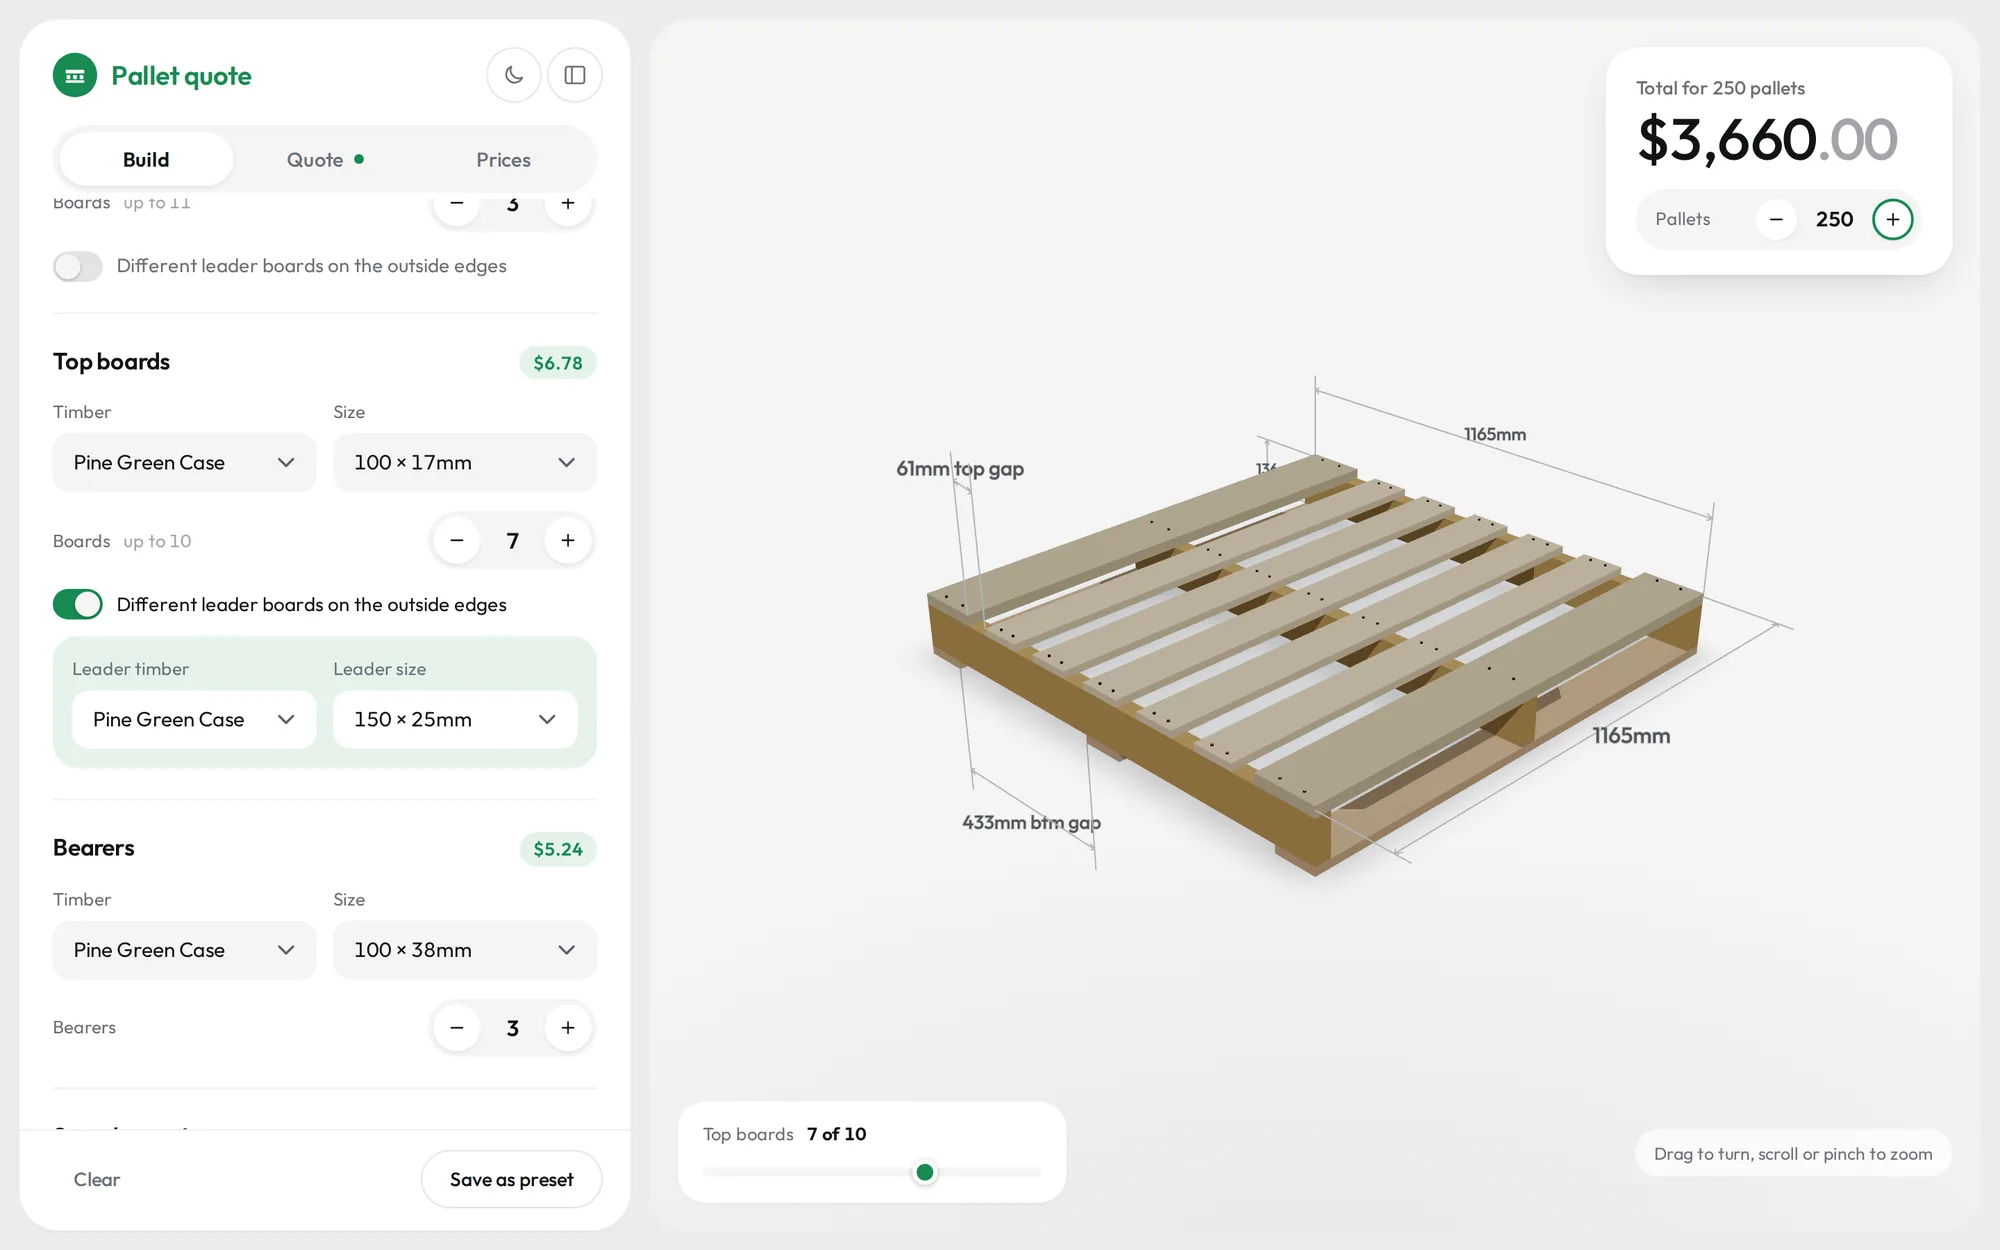
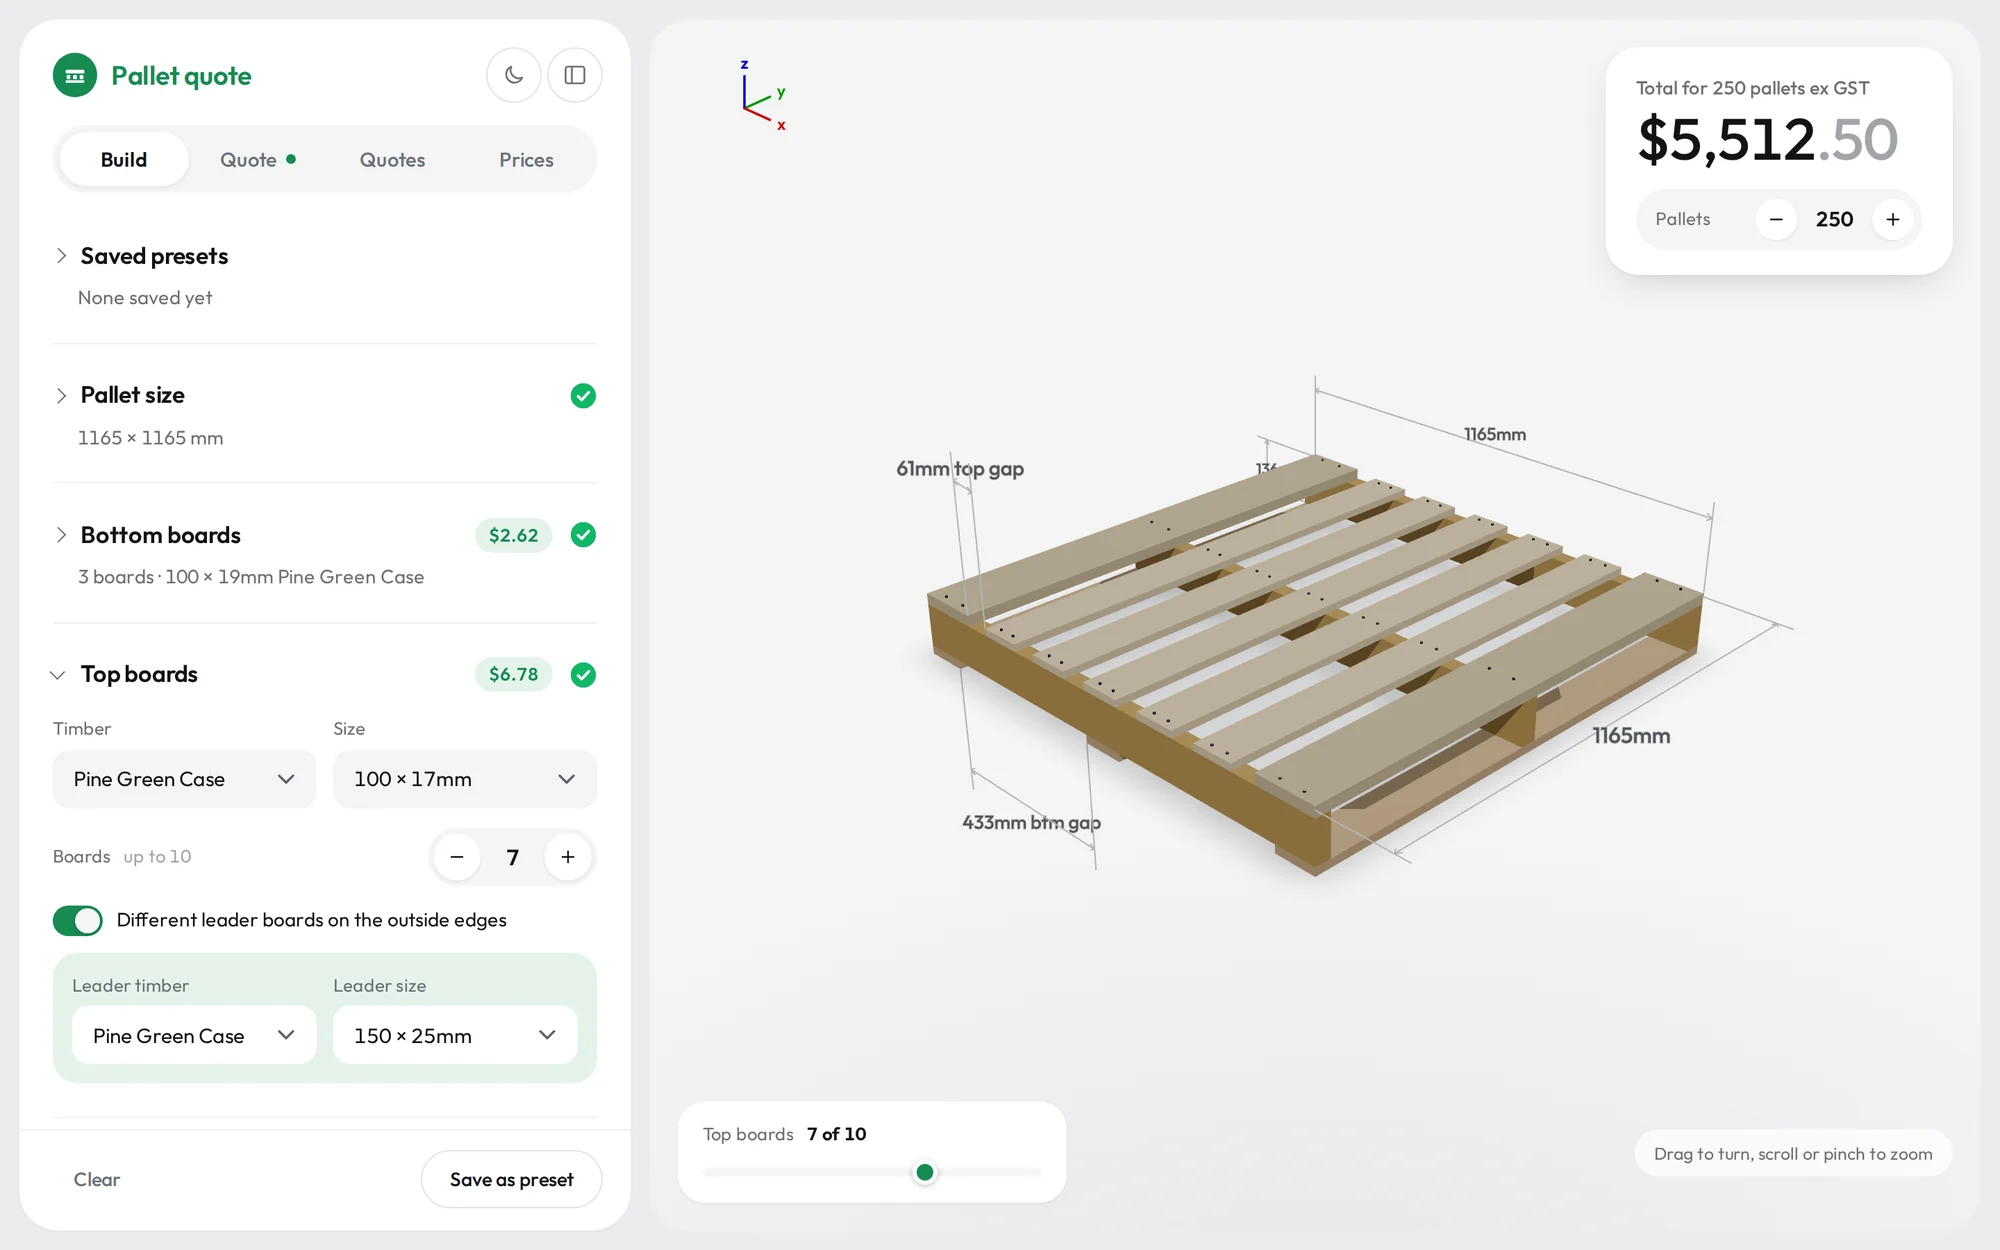
Ghost unchosen parts in 3D, same-timber shortcut, quote status filter, fresh landing screenshots
- 3D view: parts with no timber size yet show as faint outlined ghosts, off the ground shadow
- Build tab: one-click 'Use X, same as bottom boards' while a section has no timber
- Quotes tab: status chips with counts, combined with search; 'No quotes match' state
- Landing page: screenshots retaken with the current interface; callout and alt text updated
- Empty-view message only shows until a size is entered

Claude-Session: https://claude.ai/code/session_014ymZdXaVKdREm2ZLofRZKZ

diff --git a/src/components/PalletBuilderOverlay.jsx b/src/components/PalletBuilderOverlay.jsx
@@ -346,6 +346,7 @@ function PalletBuilderOverlay({ onQuoteCalculated, quoteData }) {
   const [ratesFromQuote, setRatesFromQuote] = useState(null)
   const [historyNotice, setHistoryNotice] = useState('')
   const [historySearch, setHistorySearch] = useState('')
+  const [historyStatus, setHistoryStatus] = useState('all')
   const [confirmDeleteId, setConfirmDeleteId] = useState(null)
 
   // Available sizes - derived from the selected timber type
@@ -706,6 +707,10 @@ function PalletBuilderOverlay({ onQuoteCalculated, quoteData }) {
       numberOfTopBoards: topBoards,
       numberOfBottomBoards: bottomBoards,
       numberOfBearers: bearers,
+      // Parts without a timber size yet are drawn as faint ghosts
+      topChosen: !!topBoardDims,
+      bottomChosen: !!bottomBoardDims,
+      bearerChosen: !!bearerDims,
       topGapSize: Math.max(0, topGap),
       bottomGapSize: Math.max(0, bottomGap)
     }
@@ -1158,6 +1163,14 @@ function PalletBuilderOverlay({ onQuoteCalculated, quoteData }) {
     bearers: liveQuote.bearersTotal
   }
 
+  // Quotes tab: search text and status chip together
+  const shownQuotes = quotes.filter(q => {
+    if (historyStatus !== 'all' && q.status !== historyStatus) return false
+    const term = historySearch.trim().toLowerCase()
+    if (!term) return true
+    return [q.number, q.customerName, q.customerRef, q.summary?.size].filter(Boolean).join(' ').toLowerCase().includes(term)
+  })
+
   const timberOptions = timberData.timberTypes.map(type => (
     <option key={type.id} value={type.id} title={type.name}>{type.shortName || type.name}</option>
   ))
@@ -1224,6 +1237,25 @@ function PalletBuilderOverlay({ onQuoteCalculated, quoteData }) {
     : `${missingParts.slice(0, -1).join(', ')} and ${missingParts[missingParts.length - 1]}`
   const empty = (value) => (value ? undefined : '')
 
+  // Shortcut for the usual case of one timber throughout: while a section has no timber,
+  // offer the timber already chosen in another section.
+  const chosenTimbers = [
+    ['bottom', 'bottom boards', selectedBottomBoardType],
+    ['top', 'top boards', selectedTopBoardType],
+    ['bearers', 'bearers', selectedBearerType]
+  ]
+  const sameTimberButton = (self, currentType, setType) => {
+    if (currentType) return null
+    const source = chosenTimbers.find(([key, , type]) => key !== self && type)
+    if (!source) return null
+    return (
+      <button type="button" className="same-timber" data-same-timber={self} onClick={() => setType(source[2])}>
+        <Icon name="plus" size={14} />
+        Use {timberName(source[2])}, same as {source[1]}
+      </button>
+    )
+  }
+
   // One deck of boards (top or bottom) - the two sections share the same controls
   const renderDeck = (deck) => {
     const isTop = deck === 'top'
@@ -1259,6 +1291,7 @@ function PalletBuilderOverlay({ onQuoteCalculated, quoteData }) {
             </select>
           </label>
         </div>
+        {sameTimberButton(deck, p.type, p.setType)}
         <div className="field field-inline">
           <span className="field-label" id={`${deck}-count-label`}>Boards {maxNote(p.max)}</span>
           <Stepper id={`${deck}-count-label`} label={`${deck} boards`} value={p.count} onChange={p.setCount} max={p.maxUI} allowEmpty />
@@ -1496,6 +1529,7 @@ function PalletBuilderOverlay({ onQuoteCalculated, quoteData }) {
                     </select>
                   </label>
                 </div>
+                {sameTimberButton('bearers', selectedBearerType, changeBearerType)}
                 <div className="field field-inline">
                   <span className="field-label" id="bearer-count-label">Bearers {maxNote(maxBearersAllowed)}</span>
                   <Stepper id="bearer-count-label" label="bearers" value={displayedBearers} onChange={setNumberOfBearers} max={maxBearersForUI} allowEmpty />
@@ -1694,6 +1728,21 @@ function PalletBuilderOverlay({ onQuoteCalculated, quoteData }) {
               <div className="history-head">
                 <input type="text" value={historySearch} onChange={(e) => setHistorySearch(e.target.value)}
                   placeholder="Search by customer, number or size" aria-label="Search saved quotes" data-field="history-search" />
+                {quotes.length > 0 && (
+                  <div className="status-filter" role="group" aria-label="Show quotes by status">
+                    {[['all', 'All'], ...Object.entries(STATUS_LABELS)].map(([value, label]) => {
+                      const count = value === 'all' ? quotes.length : quotes.filter(q => q.status === value).length
+                      return (
+                        <button key={value} type="button" data-status-filter={value}
+                          className={`chip ${historyStatus === value ? 'active' : ''}`} aria-pressed={historyStatus === value}
+                          disabled={count === 0 && historyStatus !== value}
+                          onClick={() => setHistoryStatus(value)}>
+                          {label}<span className="chip-count">{count}</span>
+                        </button>
+                      )
+                    })}
+                  </div>
+                )}
               </div>
               {quotes.length === 0 ? (
                 <div className="empty">
@@ -1701,15 +1750,15 @@ function PalletBuilderOverlay({ onQuoteCalculated, quoteData }) {
                   <p>Quotes are saved here when you export a PDF or press Save quote. Each one keeps the rates it was priced on.</p>
                   <button type="button" onClick={() => setActiveTab('calculator')} className="btn btn-secondary">Start a quote</button>
                 </div>
+              ) : shownQuotes.length === 0 ? (
+                <div className="empty">
+                  <h2>No quotes match</h2>
+                  <p>Nothing fits that search or status.</p>
+                  <button type="button" className="btn btn-secondary" onClick={() => { setHistorySearch(''); setHistoryStatus('all') }}>Show all quotes</button>
+                </div>
               ) : (
                 <ul className="quote-list">
-                  {quotes
-                    .filter(q => {
-                      const term = historySearch.trim().toLowerCase()
-                      if (!term) return true
-                      return [q.number, q.customerName, q.customerRef, q.summary?.size].filter(Boolean).join(' ').toLowerCase().includes(term)
-                    })
-                    .map(q => (
+                  {shownQuotes.map(q => (
                       <li key={q.id} className={q.id === currentQuoteId ? 'current' : ''}>
                         <div className="quote-row-top">
                           <span className="quote-number">{q.number}</span>
@@ -1974,9 +2023,9 @@ function PalletBuilderOverlay({ onQuoteCalculated, quoteData }) {
 
         <Pallet3DLive previewData={livePreviewData} dark={isDarkMode} />
 
-        {!(livePreviewData.numberOfTopBoards || livePreviewData.numberOfBottomBoards || livePreviewData.numberOfBearers) && (
+        {!(livePreviewData.palletWidth > 0 && livePreviewData.palletLength > 0) && (
           <div className="stage-empty">
-            <p>Enter a size and choose some boards to see the pallet take shape.</p>
+            <p>Enter a size to see the pallet take shape.</p>
           </div>
         )}
 

diff --git a/src/components/Pallet3DLive.jsx b/src/components/Pallet3DLive.jsx
@@ -1,7 +1,7 @@
 import React, { useRef, useMemo, useEffect, Suspense } from 'react'
 import { Canvas, useThree, useFrame } from '@react-three/fiber'
 import { Vector3, Quaternion } from 'three'
-import { OrbitControls, Text, Line, Billboard, ContactShadows } from '@react-three/drei'
+import { OrbitControls, Text, Line, Billboard, ContactShadows, Edges } from '@react-three/drei'
 // Bundled locally so labels work offline (drei's default font is fetched from Google)
 import labelFont from '../assets/fonts/outfit-latin-500-normal.woff'
 import '../styles/Pallet3DLive.css'
@@ -255,8 +255,23 @@ function DimensionLine({ start, end, offset = 0.5, label, color = '#3d4852', tex
   )
 }
 
+// Ghosts live on their own layer: the camera sees them, the ground shadow doesn't
+const GHOST_LAYER = 1
+
+// A part that hasn't been chosen yet: a faint see-through block with an outline
+function GhostBoard({ position, size, dark }) {
+  return (
+    <mesh position={position} layers={GHOST_LAYER}>
+      <boxGeometry args={size} />
+      <meshBasicMaterial color={dark ? '#aeb8bf' : '#56616b'} transparent opacity={dark ? 0.06 : 0.05} depthWrite={false} />
+      <Edges layers={GHOST_LAYER} color={dark ? '#6f7a82' : '#9aa2aa'} />
+    </mesh>
+  )
+}
+
 // Single board component with wood-like appearance
-function Board({ position, size, color = '#d4a574' }) {
+function Board({ position, size, color = '#d4a574', ghost = false, dark = false }) {
+  if (ghost) return <GhostBoard position={position} size={size} dark={dark} />
   return (
     <mesh position={position} castShadow receiveShadow>
       <boxGeometry args={size} />
@@ -373,6 +388,7 @@ function PalletStructure({ previewData, dark = false }) {
     })
   }, [previewData.numberOfBearers, palletDepth, bearerDepth])
 
+  const hasSize = palletWidth > 0 && palletDepth > 0
   const hasComponents = previewData.numberOfTopBoards > 0 || 
                        previewData.numberOfBottomBoards > 0 || 
                        previewData.numberOfBearers > 0
@@ -386,6 +402,8 @@ function PalletStructure({ previewData, dark = false }) {
           position={[board.xPos, bearerStandingHeight / 2 + board.thickness / 2, 0]}
           size={[board.width, board.thickness, palletDepth]}
           color={board.isLeader ? "#d4c4a7" : "#e8d5b7"}
+          ghost={!previewData.topChosen}
+          dark={dark}
         />
       ))}
       
@@ -396,6 +414,8 @@ function PalletStructure({ previewData, dark = false }) {
           position={[0, 0, zPos]}
           size={[palletWidth, bearerStandingHeight, bearerDepth]}
           color="#c9a66b"
+          ghost={!previewData.bearerChosen}
+          dark={dark}
         />
       ))}
       
@@ -406,11 +426,13 @@ function PalletStructure({ previewData, dark = false }) {
           position={[board.xPos, -bearerStandingHeight / 2 - board.thickness / 2, 0]}
           size={[board.width, board.thickness, palletDepth]}
           color={board.isLeader ? "#c4a886" : "#d4b896"}
+          ghost={!previewData.bottomChosen}
+          dark={dark}
         />
       ))}
       
       {/* Nails for top boards - positioned so nail head sticks up 0.03 units above board */}
-      {topBoardData.map((board, boardIdx) => 
+      {previewData.topChosen && topBoardData.map((board, boardIdx) => 
         bearerPositions.map((bearerZ, bearerIdx) => {
           const boardTopSurface = bearerStandingHeight / 2 + board.thickness
           const nailHeight = 0.2
@@ -427,7 +449,7 @@ function PalletStructure({ previewData, dark = false }) {
       )}
       
       {/* Nails for bottom boards - positioned so nail point sticks down 0.03 units below board */}
-      {bottomBoardData.map((board, boardIdx) => 
+      {previewData.bottomChosen && bottomBoardData.map((board, boardIdx) => 
         bearerPositions.map((bearerZ, bearerIdx) => {
           const boardBottomSurface = -bearerStandingHeight / 2 - board.thickness
           const nailHeight = 0.2
@@ -443,18 +465,22 @@ function PalletStructure({ previewData, dark = false }) {
         })
       )}
 
-      {/* Ghost outline when no components */}
-      {!hasComponents && palletWidth > 0 && palletDepth > 0 && (
-        <mesh position={[0, 0, 0]}>
-          <boxGeometry args={[palletWidth, bearerStandingHeight + topBoardThickness + bottomBoardThickness, palletDepth]} />
-          <meshStandardMaterial 
-            color="#999999" 
-            transparent 
-            opacity={0.15}
-            wireframe
-          />
-        </mesh>
+      {/* Placeholders for parts with no boards yet, so the pallet shows what's still to choose */}
+      {hasSize && previewData.numberOfTopBoards === 0 && (
+        <GhostBoard dark={dark}
+          position={[0, bearerStandingHeight / 2 + topBoardThickness / 2, 0]}
+          size={[palletWidth, topBoardThickness, palletDepth]} />
       )}
+      {hasSize && previewData.numberOfBottomBoards === 0 && (
+        <GhostBoard dark={dark}
+          position={[0, -bearerStandingHeight / 2 - bottomBoardThickness / 2, 0]}
+          size={[palletWidth, bottomBoardThickness, palletDepth]} />
+      )}
+      {hasSize && previewData.numberOfBearers === 0 && [-1, 0, 1].map(i => (
+        <GhostBoard key={`ghost-bearer-${i}`} dark={dark}
+          position={[0, 0, i * (palletDepth - bearerDepth) / 2]}
+          size={[palletWidth, bearerStandingHeight, bearerDepth]} />
+      ))}
 
       {/* Dimension Lines - only show when relevant components are selected */}
       {/* Suspense keeps the pallet visible while the label font loads */}
@@ -539,6 +565,7 @@ function Pallet3DLive({ previewData, dark = false }) {
         camera={{ position: [14, 10, 14], fov: 40 }}
         shadows
         dpr={[1, 2]}
+        onCreated={({ camera }) => camera.layers.enable(GHOST_LAYER)}
       >
         {/* Ambient lighting */}
         <ambientLight intensity={0.6} />

diff --git a/index.html b/index.html
@@ -106,9 +106,9 @@
               <picture>
                 <source srcset="/src/landing/img/app-build-dark.webp" media="(prefers-color-scheme: dark)" />
                 <img src="/src/landing/img/app-build.webp" width="2000" height="1250" loading="lazy"
-                  alt="The Pallet Quote builder with top boards, leader boards and bearers chosen, a 3D pallet and a total for 250 pallets" />
+                  alt="The Pallet Quote builder with each section ticked off, top boards and leader boards chosen, a 3D pallet and a total for 250 pallets" />
               </picture>
-              <span class="note" style="--x: 27.9%; --y: 29%; --dx: -1;">Running cost for each part</span>
+              <span class="note" style="--x: 25.7%; --y: 54%; --dx: -1;">Cost of each part</span>
               <span class="note" style="--x: 88.5%; --y: 11%; --dx: -1;">Total for any quantity</span>
               <span class="note" style="--x: 64%; --y: 52%; --dx: 1;">Live 3D, drawn to scale</span>
             </div>
@@ -131,7 +131,7 @@
               </div>
               <div class="shot">
                 <img src="/src/landing/img/app-quote-panel.webp" width="700" height="1387" loading="lazy"
-                  alt="The quote tab with each part, its cost, the gaps between boards and the total for 250 pallets" />
+                  alt="The quote tab with each part and its cost, then materials, labour, markup, GST and the total for 250 pallets" />
               </div>
             </div>
           </div>

diff --git a/src/styles/Workbench.css b/src/styles/Workbench.css
@@ -2423,3 +2423,72 @@ html.dark-mode .status-tick {
     margin-bottom: 0;
   }
 }
+
+/* "Use the same timber as another section" shortcut */
+.same-timber {
+  display: inline-flex;
+  align-items: center;
+  gap: 6px;
+  align-self: flex-start;
+  margin-top: -4px;
+  padding: 6px 12px 6px 9px;
+  border: 0;
+  border-radius: 999px;
+  background: var(--accent-soft);
+  color: var(--accent);
+  font: inherit;
+  font-size: 13px;
+  font-weight: 600;
+  text-align: left;
+  cursor: pointer;
+}
+
+.same-timber:hover {
+  color: var(--accent-hover);
+}
+
+/* Quotes tab: filter by status */
+.status-filter {
+  display: flex;
+  flex-wrap: wrap;
+  gap: 6px;
+  margin-top: 12px;
+}
+
+.chip {
+  display: inline-flex;
+  align-items: center;
+  gap: 6px;
+  height: 30px;
+  padding: 0 11px;
+  border: 0;
+  border-radius: 999px;
+  background: var(--field);
+  color: var(--ink-2);
+  font: inherit;
+  font-size: 13px;
+  font-weight: 500;
+  cursor: pointer;
+  transition: background-color 0.2s ease, color 0.2s ease;
+}
+
+.chip:hover:not(:disabled) {
+  color: var(--ink);
+}
+
+.chip.active,
+.chip.active:hover {
+  background: var(--accent-soft);
+  color: var(--accent);
+}
+
+.chip:disabled {
+  opacity: 0.45;
+  cursor: default;
+}
+
+.chip-count {
+  font-size: 12px;
+  font-variant-numeric: tabular-nums;
+  opacity: 0.7;
+}

diff --git a/HANDOFF.md b/HANDOFF.md
@@ -113,6 +113,12 @@ total ex    = sell × quantity;  GST = ex × gstRate (if showGst);  inc = ex + G
 
 **Build progress:** each Build section heading carries a `StatusMark` (far right of the heading row: a circle whose outline fills clockwise as the section is completed, then becomes a bright green ticked circle; completion plays the same click-and-ripple as the padlock in `LockIcon.css`, so keep the two in step), driven by `buildProgress`. Fields with nothing chosen get `data-empty` and render hollow with a dashed outline. The price card lists what's left ("Still to choose: top boards and bearers"). Bottom boards count as required, matching `liveQuote.isComplete`; the owner hasn't confirmed whether some pallets have none.
 
+**3D ghosts:** in `Pallet3DLive.jsx`, any part without a timber size yet is drawn as a faint see-through block with an outline (`GhostBoard`): boards with a count but no size, a slab where a deck has no boards, and three bearers where none are set. Ghosts sit on their own three.js layer so the ground shadow ignores them.
+
+**Same-timber shortcut:** while a Build section has no timber, it offers a one-click "Use X, same as bottom boards" button (`sameTimberButton`).
+
+**Quotes filter:** status chips (All, Draft, Sent, Accepted, Lost, each with a count) work together with the search box (`shownQuotes`).
+
 **Price lock:** timber and nail prices are locked against accidental edits, each with its own padlock. Labour, markup and GST share one padlock in their section head (lock id `pricing`). Everything starts locked on each visit.
 
 ## 6. Design rules the owner has set
